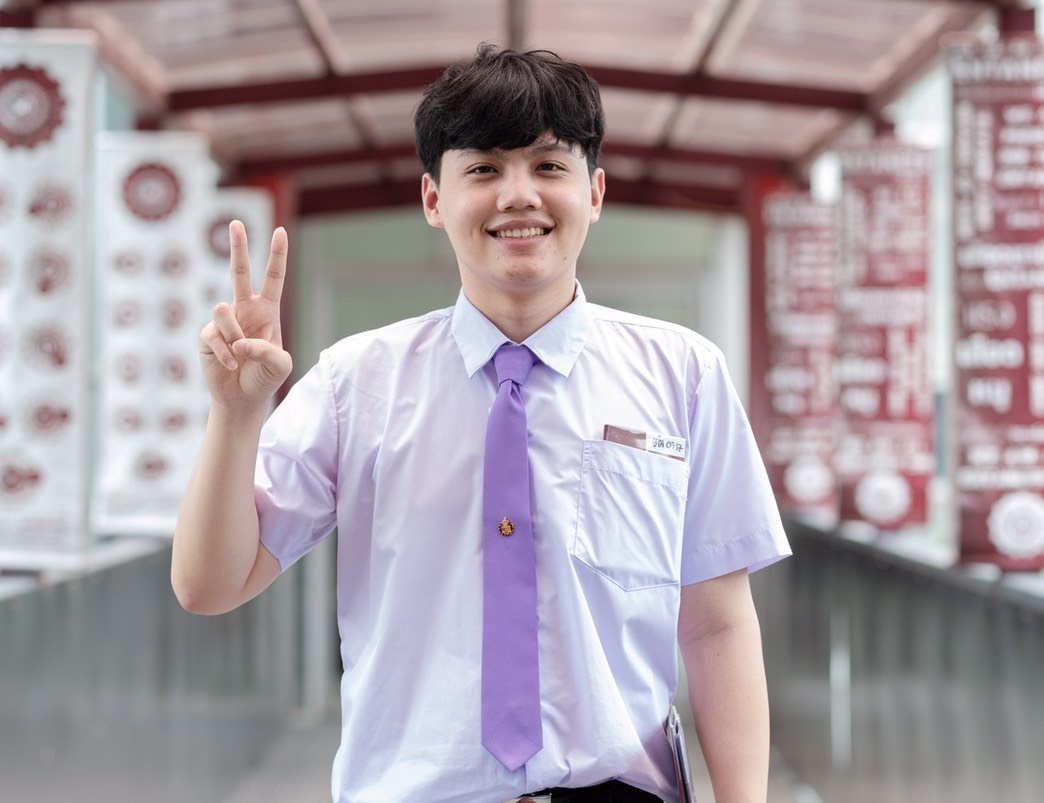
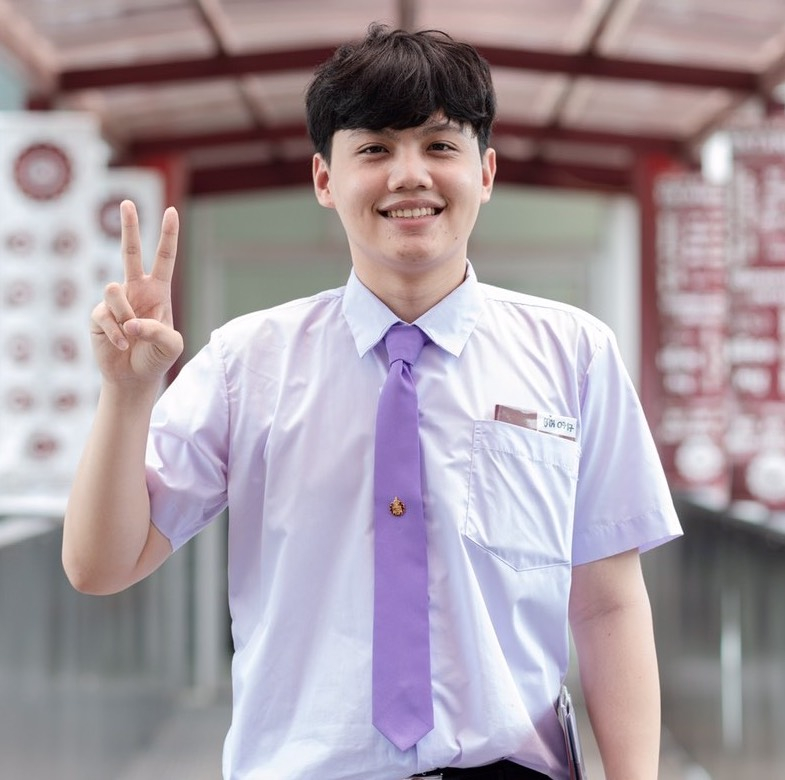
add background & fix photo

diff --git a/index.html b/index.html
@@ -6,27 +6,40 @@
   <meta name="viewport" content="width=device-width, initial-scale=1.0">
   <title>Kittiphum Website</title>
   <link href="https://unpkg.com/tailwindcss@^2/dist/tailwind.min.css" rel="stylesheet">
+  <style>
+    .bg{
+      background-repeat : no-repeat;
+      background-position: top center;
+      background-size:100%;
+      }
+  </style>
 </head>
-<body class="font-mono">
+<body class="font-mono bg" background="img/bg2.jpg" >
 
   <!-- Navbar Bar -->
-  <div class="flex justify-center space-x-5 mt-5 text-blue-600 ">
+  <div class="flex justify-center space-x-10 p-5 text-blue-600 ">
     <a href="index.html">Home</a>
     <a href="experience.html">Experience</a>
     <a href="contact.html">Contact</a>
   </div>
 
   <!-- data -->
-  <div class="flex p-20 justify-center">
+  <div class="flex mt-20 justify-center">
     <img src="img/me1.jpg" class="rounded-full w-40 h-40">
     <div class="p-5 ml-10">
       <p class="font-black text-lg">Kittiphum Sanit</p>
       <p class="text-gray-500">Hello, Wellcome to my Website.My name is kittiphum Sanit.<br>
       I studying in Faculty of Engineering , Chiang Mai University</p>
     </div>
-    
   </div>
-  <p class="text-center text-gray-500 mt-5">© 2021 kittiphumsanit.com by Kittiphum Sanit</p>
+
+  <p class="text-center font-black text-lg mt-10">My Skills</p>
+
+  <!-- skills -->
+  <div>
+
+  </div>
+  <p class="text-center text-gray-500 mt-64">© 2021 kittiphumsanit.com by Kittiphum Sanit</p>
 
 </body>
 </html>

diff --git a/contact.html b/contact.html
@@ -6,11 +6,18 @@
     <meta name="viewport" content="width=device-width, initial-scale=1.0">
     <title>Kittiphum Website</title>
     <link href="https://unpkg.com/tailwindcss@^2/dist/tailwind.min.css" rel="stylesheet">
+    <style>
+        .bg{
+          background-repeat : no-repeat;
+          background-position: top center;
+          background-size:100%;
+          }
+      </style>
 </head>
-<body class="font-mono">
+<body class="font-mono bg" background="img/bg2.jpg">
 
     <!-- Navbar Bar -->
-  <div class="bg-white flex justify-center space-x-5 mt-5 text-blue-600 font-mono">
+  <div class="flex justify-center space-x-10 p-5 text-blue-600 font-mono">
     <a href="index.html">Home</a>
     <a href="experience.html">Experience</a>
     <a href="contact.html">Contact</a>
@@ -19,7 +26,7 @@
   <!-- contact -->
 
     <div>
-        <h1 class="font-black font-mono text-center p-10 text-xl">My Contact</h1>
+        <h1 class="font-black font-mono text-center p-8 text-xl">My Contact</h1>
     </div>
 
     <!-- name -->

diff --git a/experience.html b/experience.html
@@ -6,11 +6,18 @@
     <meta name="viewport" content="width=device-width, initial-scale=1.0">
     <title>Kittiphum Website</title>
     <link href="https://unpkg.com/tailwindcss@^2/dist/tailwind.min.css" rel="stylesheet">
+    <style>
+        .bg{
+          background-repeat : no-repeat;
+          background-position: top center;
+          background-size:100%;
+          }
+      </style>
 </head>
-<body class="font-mono">
+<body class="font-mono bg" background="img/bg2.jpg">
 
     <!-- Navbar Bar -->
-  <div class="flex justify-center space-x-5 mt-5 text-blue-600 ">
+  <div class="flex justify-center space-x-10 p-5 text-blue-600 ">
     <a href="index.html">Home</a>
     <a href="experience.html">Experience</a>
     <a href="contact.html">Contact</a>
